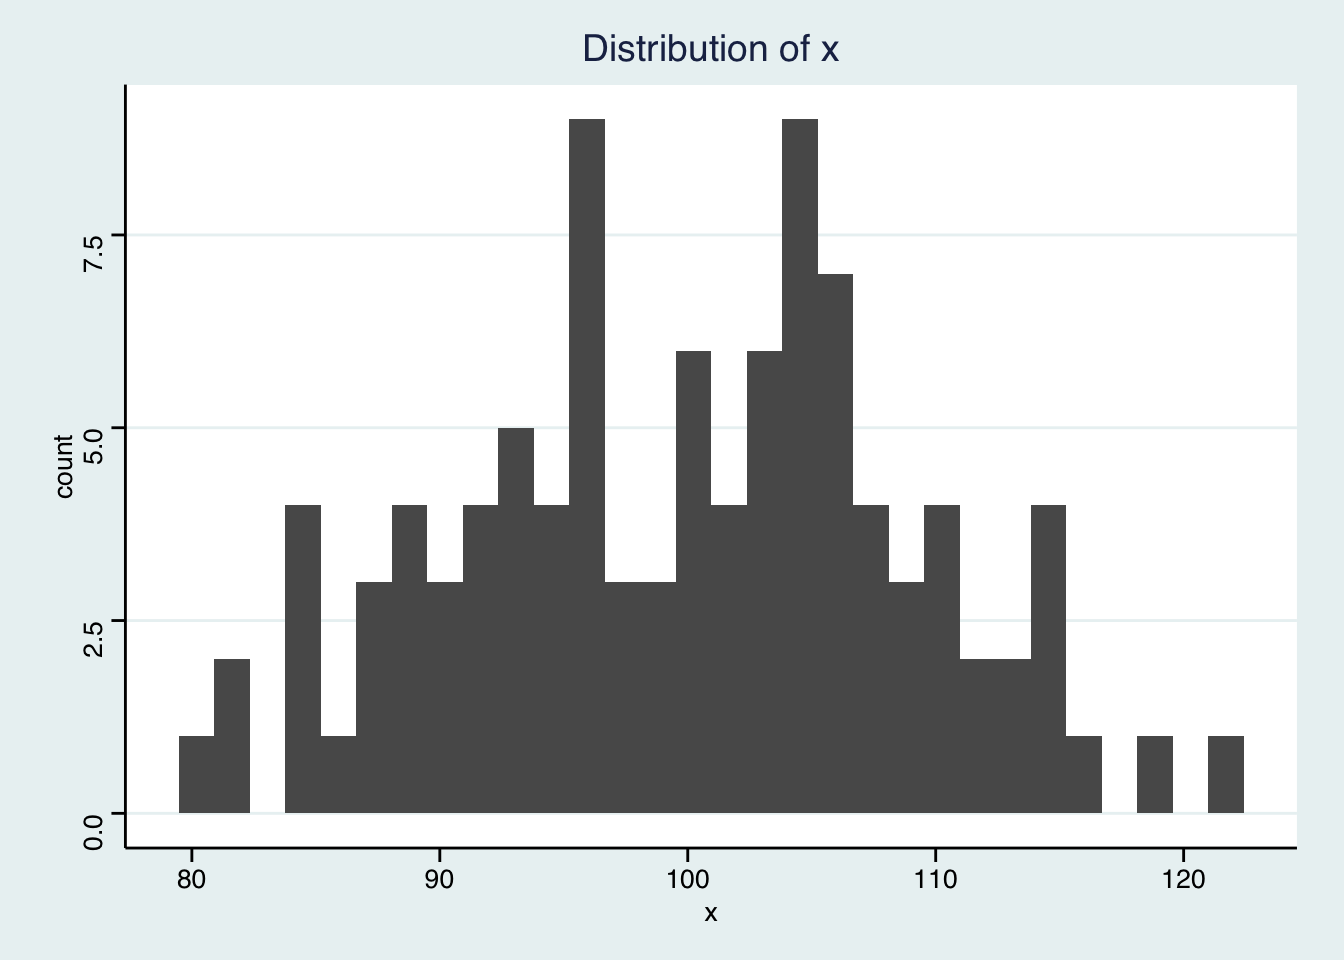
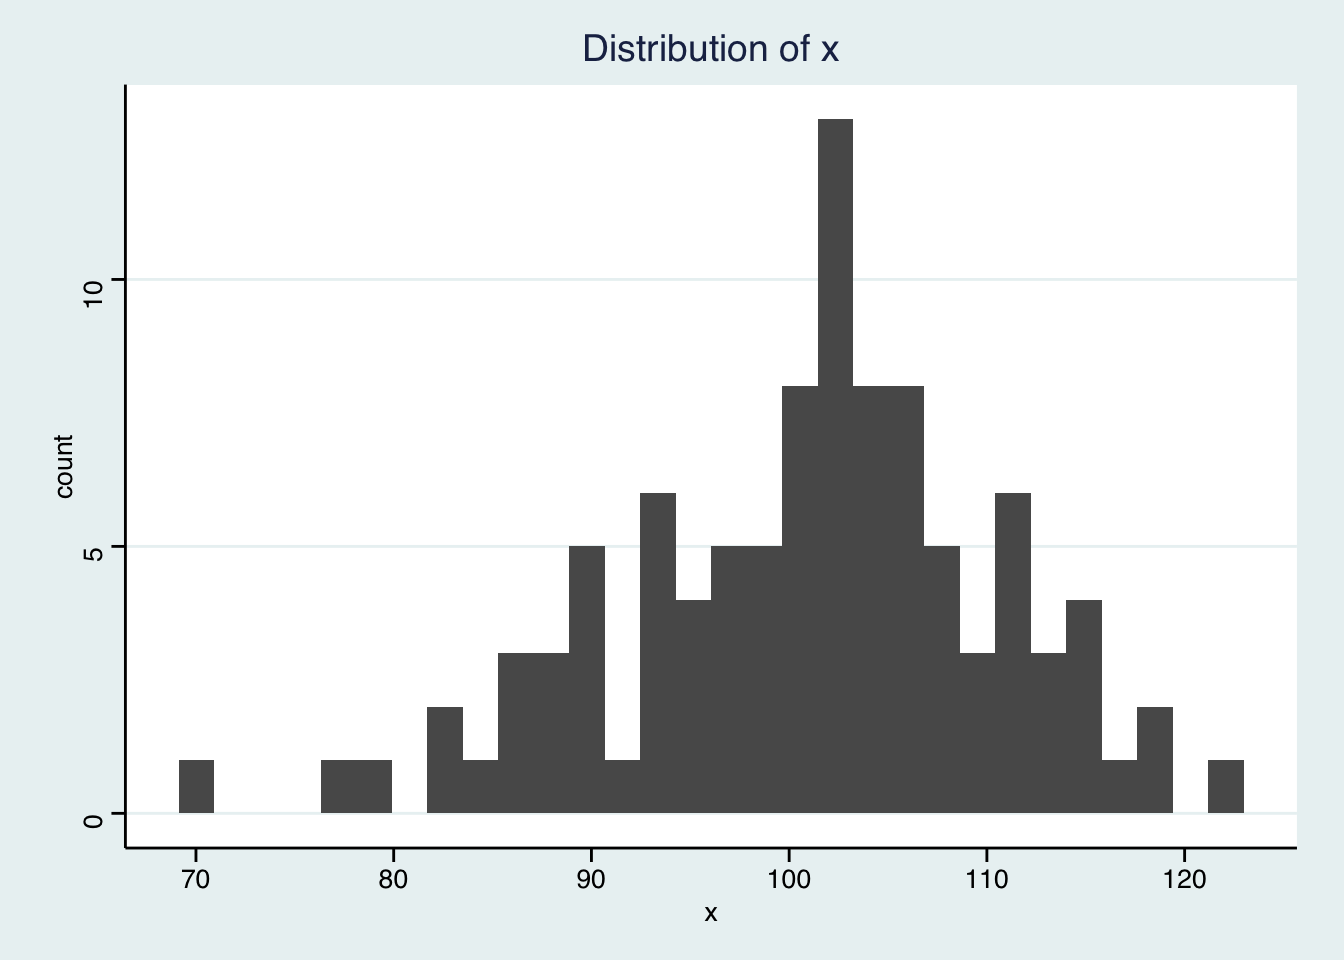
first commit of PDF

diff --git a/categorical/paper-template/categorical.html b/categorical/paper-template/categorical.html
@@ -66,7 +66,7 @@ ul.task-list li input[type="checkbox"] {
   <li><a href="#conclusion" id="toc-conclusion" class="nav-link" data-scroll-target="#conclusion"><span class="header-section-number">7</span> Conclusion</a></li>
   <li><a href="#references" id="toc-references" class="nav-link" data-scroll-target="#references"><span class="header-section-number">8</span> References</a></li>
   </ul>
-</nav>
+<div class="quarto-alternate-formats"><h2>Other Formats</h2><ul><li><a href="categorical.pdf"><i class="bi bi-file-pdf"></i>PDF</a></li></ul></div></nav>
 </div>
 <main class="content page-columns page-full" id="quarto-document-content">
 
@@ -215,16 +215,16 @@ ul.task-list li input[type="checkbox"] {
 </tr>
 <tr class="even">
 <td style="text-align: center;">x</td>
-<td style="text-align: center;">99.83</td>
-<td style="text-align: center;">9.11</td>
-<td style="text-align: center;">80.85</td>
-<td style="text-align: center;">122.4</td>
+<td style="text-align: center;">100.8</td>
+<td style="text-align: center;">9.694</td>
+<td style="text-align: center;">69.52</td>
+<td style="text-align: center;">121.6</td>
 <td style="text-align: center;">NA</td>
 </tr>
 <tr class="odd">
 <td style="text-align: center;">y</td>
-<td style="text-align: center;">0.56</td>
-<td style="text-align: center;">0.4989</td>
+<td style="text-align: center;">0.49</td>
+<td style="text-align: center;">0.5024</td>
 <td style="text-align: center;">0</td>
 <td style="text-align: center;">1</td>
 <td style="text-align: center;">NA</td>
@@ -271,17 +271,17 @@ ul.task-list li input[type="checkbox"] {
 </tr>
 <tr class="odd">
 <td style="text-align: left; padding: 0.2cm; vertical-align: top;">x</td>
-<td style="text-align: left; padding: 0.2cm; vertical-align: top;">0.73</td>
-<td style="text-align: left; padding: 0.2cm; vertical-align: top;">0.05</td>
-<td style="text-align: left; padding: 0.2cm; vertical-align: top;">-5.03</td>
+<td style="text-align: left; padding: 0.2cm; vertical-align: top;">0.61</td>
+<td style="text-align: left; padding: 0.2cm; vertical-align: top;">0.07</td>
+<td style="text-align: left; padding: 0.2cm; vertical-align: top;">-4.32</td>
 <td style="text-align: left; padding: 0.2cm; vertical-align: top;"><strong>&lt;0.001</strong></td>
 </tr>
 <tr class="even">
 <td style="text-align: left; padding: 0.2cm; vertical-align: top;">z [1]</td>
-<td style="text-align: left; padding: 0.2cm; vertical-align: top;">0.98</td>
-<td style="text-align: left; padding: 0.2cm; vertical-align: top;">0.60</td>
-<td style="text-align: left; padding: 0.2cm; vertical-align: top;">-0.03</td>
-<td style="text-align: left; padding: 0.2cm; vertical-align: top;">0.977</td>
+<td style="text-align: left; padding: 0.2cm; vertical-align: top;">0.30</td>
+<td style="text-align: left; padding: 0.2cm; vertical-align: top;">0.22</td>
+<td style="text-align: left; padding: 0.2cm; vertical-align: top;">-1.66</td>
+<td style="text-align: left; padding: 0.2cm; vertical-align: top;">0.096</td>
 </tr>
 <tr class="odd">
 <td style="text-align: left; padding: 0.2cm; vertical-align: top; padding-top: 0.1cm; padding-bottom: 0.1cm; border-top: 1px solid;">Observations</td>
